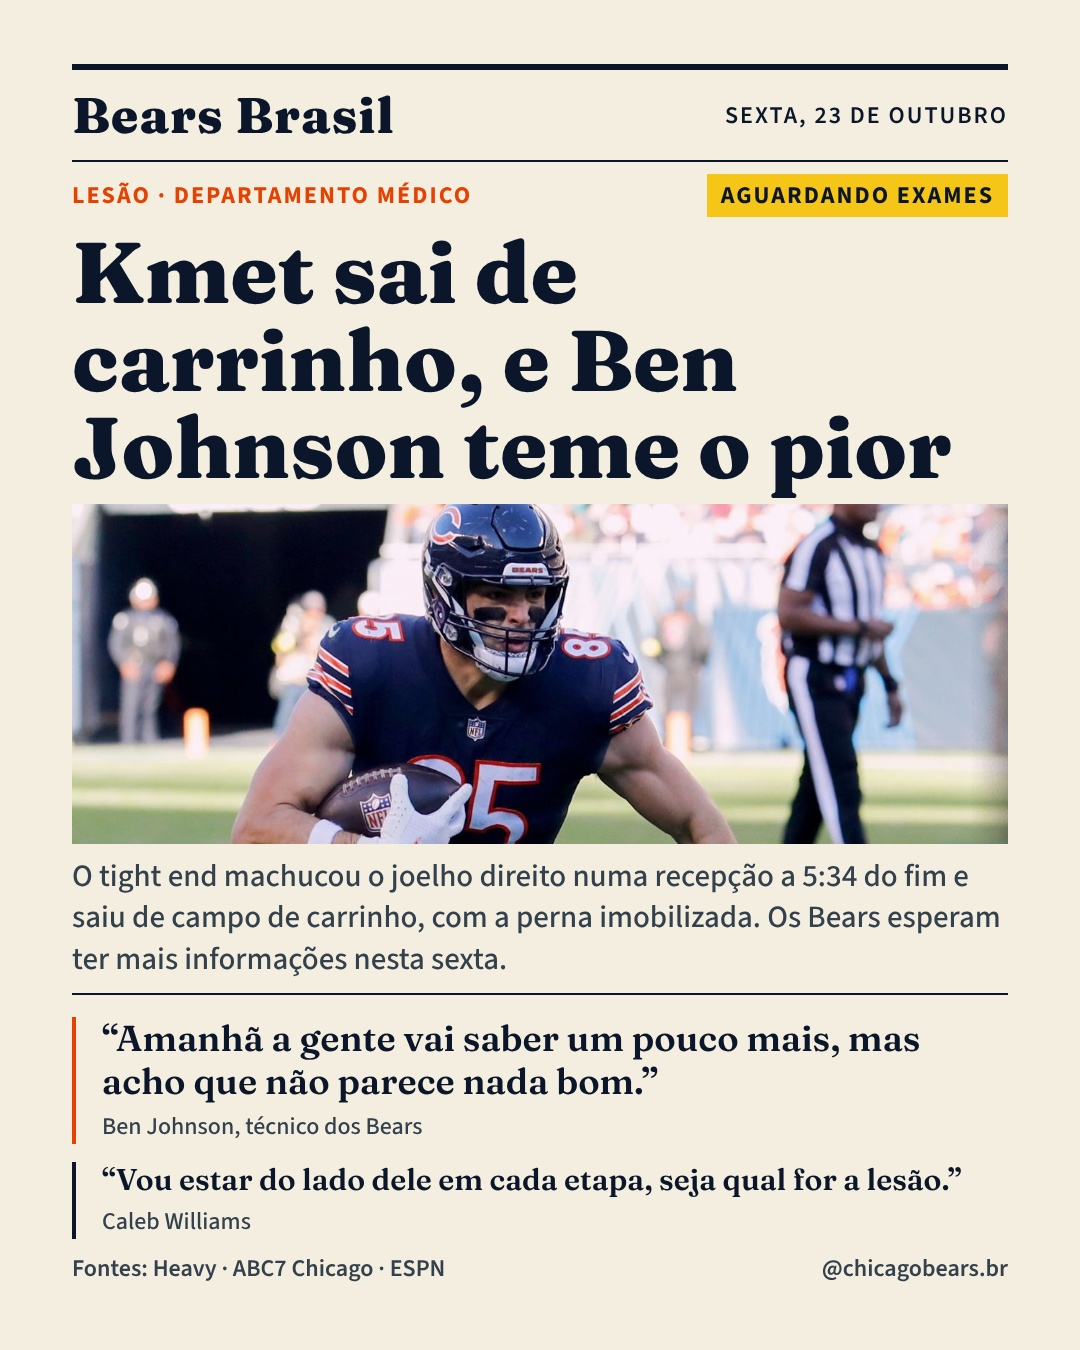
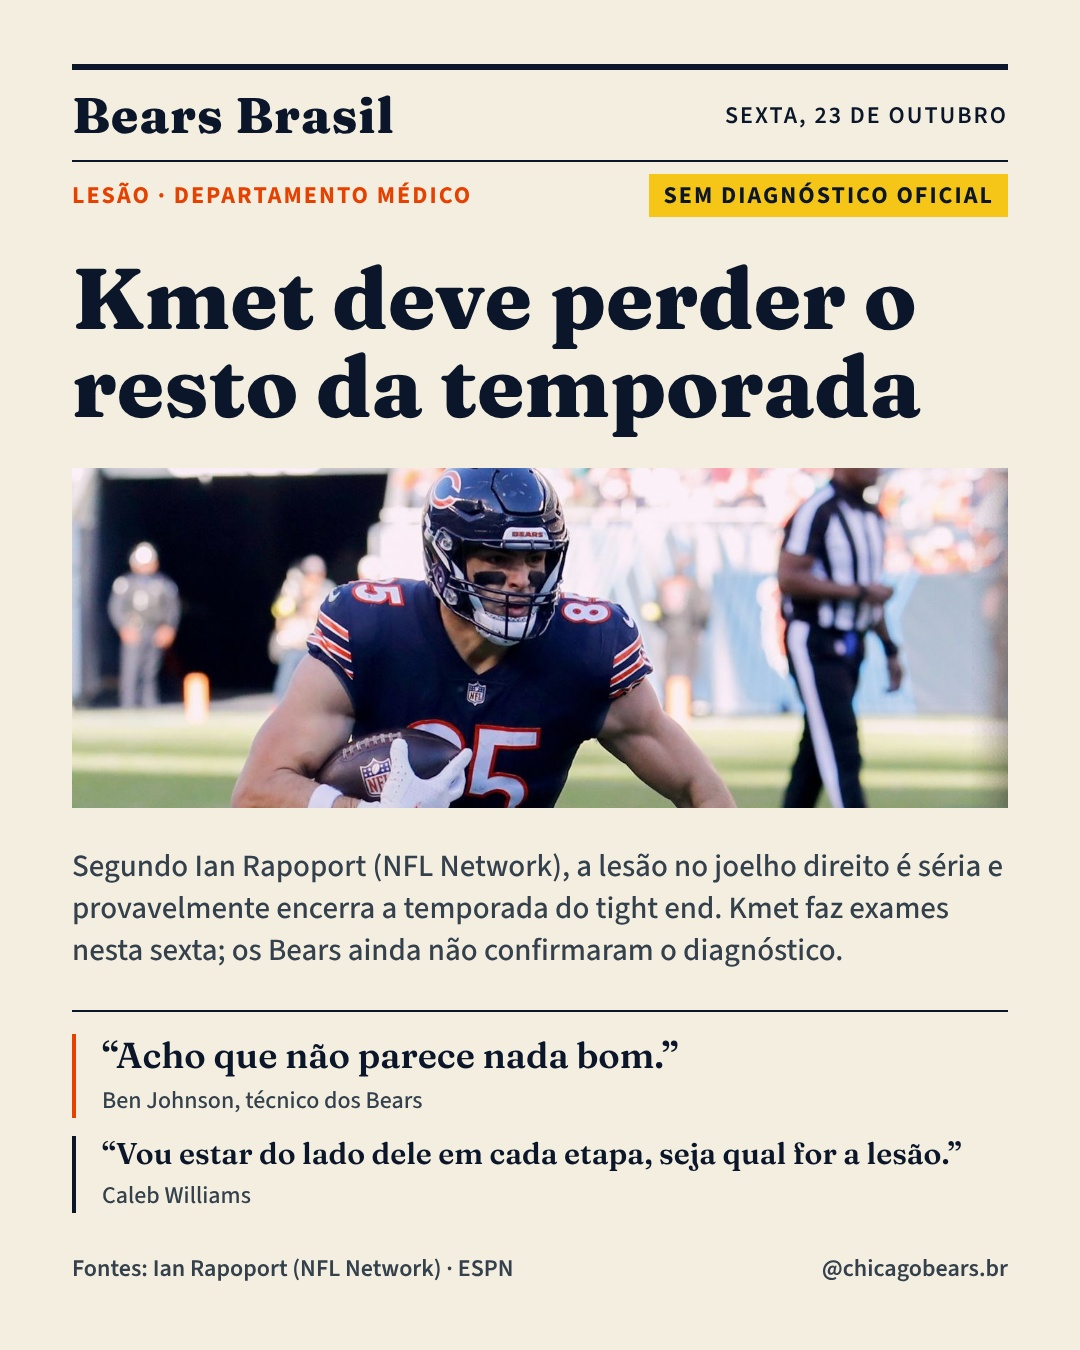
Kmet 15h v2: furo do Rapoport (provável fim de temporada), aguardando ok
Claude-Session: https://claude.ai/code/session_012m1wznpQo6V3HwtZWXYpkB

Changed region(s): [[0.0611, 0.1244, 0.9472, 0.9644]]

diff --git a/posts/2026-10-23/1500-kmet-lesao/src/1.dc.html b/posts/2026-10-23/1500-kmet-lesao/src/1.dc.html
@@ -22,19 +22,19 @@ body{margin:0}
 </div>
 <div style="display: flex; justify-content: space-between; align-items: center; font-weight: 700; font-size: 24px; letter-spacing: 2px">
 <span style="color: #E64100">LESÃO · DEPARTAMENTO MÉDICO</span>
-<span style="background: #F5C518; color: #0B162A; padding: 4px 14px">AGUARDANDO EXAMES</span>
+<span style="background: #F5C518; color: #0B162A; padding: 4px 14px">SEM DIAGNÓSTICO OFICIAL</span>
 </div>
 </div>
 
-<h1 style="margin: 0; font-family: 'Fraunces', serif; font-weight: 800; font-size: 86px; line-height: 1.02">Kmet sai de carrinho, e Ben Johnson teme o pior</h1>
+<h1 style="margin: 0; font-family: 'Fraunces', serif; font-weight: 800; font-size: 86px; line-height: 1.02">Kmet deve perder o resto da temporada</h1>
 
 <div style="height: 340px; overflow: hidden; background: #0B162A"><img src="/_blob/f46fa6a28a13aa7d22f6f51dfc1165ce" alt="Cole Kmet com a bola no Soldier Field" style="width: 100%; height: 100%; object-fit: cover; object-position: 30% 25%; display: block"></div>
 
-<p style="margin: 0; font-weight: 500; font-size: 31px; line-height: 1.35; color: #34414D">O tight end machucou o joelho direito numa recepção a 5:34 do fim e saiu de campo de carrinho, com a perna imobilizada. Os Bears esperam ter mais informações nesta sexta.</p>
+<p style="margin: 0; font-weight: 500; font-size: 31px; line-height: 1.35; color: #34414D">Segundo Ian Rapoport (NFL Network), a lesão no joelho direito é séria e provavelmente encerra a temporada do tight end. Kmet faz exames nesta sexta; os Bears ainda não confirmaram o diagnóstico.</p>
 
 <div style="display: flex; flex-direction: column; gap: 18px; border-top: 2px solid #0B162A; padding-top: 22px">
 <div style="display: flex; flex-direction: column; gap: 6px; border-left: 4px solid #E64100; padding-left: 26px">
-<span style="font-family: 'Fraunces', serif; font-weight: 600; font-size: 36px; line-height: 1.2">“Amanhã a gente vai saber um pouco mais, mas acho que não parece nada bom.”</span>
+<span style="font-family: 'Fraunces', serif; font-weight: 600; font-size: 36px; line-height: 1.2">“Acho que não parece nada bom.”</span>
 <span style="font-weight: 500; font-size: 24px; color: #34414D">Ben Johnson, técnico dos Bears</span>
 </div>
 <div style="display: flex; flex-direction: column; gap: 6px; border-left: 4px solid #0B162A; padding-left: 26px">
@@ -44,7 +44,7 @@ body{margin:0}
 </div>
 
 <div style="display: flex; justify-content: space-between; font-weight: 600; font-size: 24px; color: #34414D">
-<span>Fontes: Heavy · ABC7 Chicago · ESPN</span>
+<span>Fontes: Ian Rapoport (NFL Network) · ESPN</span>
 <span>@chicagobears.br</span>
 </div>
 </div>
